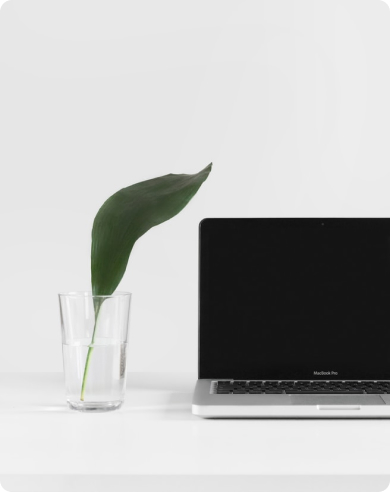
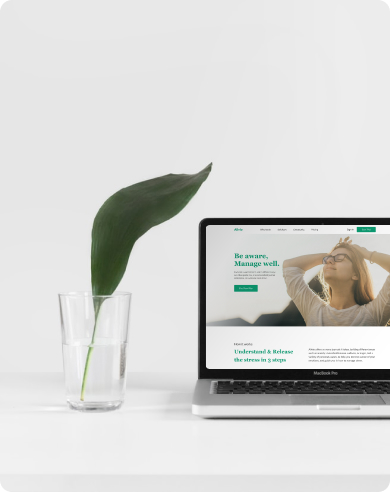
add how-it-works

Changed region(s): [[0.5231, 0.4573, 1.0, 0.7622]]

diff --git a/index.html b/index.html
@@ -34,8 +34,53 @@
                     <p class="headline-content__text">Everyone experiences stress in different ways. <br> Let Alivio guide you, in a personalized journal experience, to overcome your stress.</p>
                     <button class="btn-primary">Find Your Way</button>
                 </div>
+              </div>
+        </section>
+
+        <section class="how-it-works">
+            <div class="container">
+                <h4 class="how-it-works__subtitle">How it works</h4>
+                <div class="how-it-works__content">
+                    <div class="title">Understand & Release the stress in 3 steps</div>
+                    <p class="how-it-works__descr">Alivio offers as many journals it takes, tackling different areas such as anxiety, overwhelmedness, sadness, or anger, and a variety of personal causes, to help you become aware of your emotions, and guide you in how to manage stress.</p>
+                </div>
+                <div class="how-it-works__steps">
+                   <div class="how-it-works__step-wrapper">
+                    <div class="how-it-works__step">
+                        <div class="how-it-works__step-header">
+                            <span class="how-it-works__step-number">01</span>
+                            <h3 class="how-it-works__step-title">Personalize</h3>
+                        </div>
+                        <p class="how-it-works__step-descr">Answer a quick survey about how you express yourself, what causes you stress, and what area
+                            would you like to work on. This way, we can fully personalize your journal!</p>
+                        <img src="images/steps_personalize.jpg" alt="personalize">
+                    </div>
+                   </div>
+                    <div class="how-it-works__step-wrapper">
+                        <div class="how-it-works__step">
+                            <div class="how-it-works__step-header">
+                                <span class="how-it-works__step-number">02</span>
+                                <h3 class="how-it-works__step-title">Write & Understand</h3>
+                            </div>
+                            <p class="how-it-works__step-descr">Write, draw, reflect, understand. Alivio will guide you through the prompts and will help you
+                                manage your stress!</p>
+                            <img src="images/steps_write.png" alt="write-understand">
+                        </div>
+                    </div>
+                   <div class="how-it-works__step-wrapper">
+                    <div class="how-it-works__step">
+                        <div class="how-it-works__step-header">
+                            <span class="how-it-works__step-number">03</span>
+                            <h3 class="how-it-works__step-title">Alivio!</h3>
+                        </div>
+                        <p class="how-it-works__step-descr">Now you are aware, and have a way to manage and overcome your own stress. What are you waiting for? Alivio today!</p>
+                        <img src="images/steps_alivio.jpg" alt="step-alivio">
+                    </div>
+                   </div>
+                </div>
             </div>
         </section>
+
     </main>
 </body>
 </html>

diff --git a/css/blocks/how-it-works.css b/css/blocks/how-it-works.css
@@ -1,0 +1,78 @@
+.how-it-works {
+    padding: 170px 0 50px 0;
+}
+
+.how-it-works__subtitle {
+    color: var(--grey-color-secondary);
+    font-weight: 600;
+    font-size: var(--font-size-small);
+    line-height: 1.5;
+}
+
+.how-it-works__content {
+    display: grid;
+    grid-template-columns: repeat(2, 1fr);
+    grid-template-rows: auto;
+    column-gap: 135px;
+    margin-bottom: 50px;
+}
+
+.how-it-works__descr {
+    color: var(--grey-color-secondary);
+    font-weight: 500;   
+    font-size: var(--font-size-smallest);
+    line-height: 1.5;
+}
+
+.how-it-works__steps {
+    display: grid;
+    grid-template-columns: repeat(3, 1fr);
+    grid-template-rows: auto;
+    column-gap: 95px;
+}
+
+.how-it-works__step-wrapper {
+    display: flex;
+    flex-direction: column;
+}
+
+.how-it-works__step-wrapper:nth-of-type(even) {
+    margin-top: 180px;
+    justify-content: flex-end;
+}
+
+.how-it-works__step-header {
+    display: flex;
+    align-items: baseline;
+}
+
+.how-it-works__step-number {
+    font-family: 'Georgia';
+    font-style: normal;
+    font-weight: 400;
+    font-size: var(--font-size-largest);
+    line-height: 1.5;
+    text-align: center;
+    color: var(--green-color-primary);
+    opacity: 20%;
+}
+
+.how-it-works__step-title {
+    color: var(--black-color);
+    font-family: 'Georgia Bold';
+    font-size: var(--font-size-small-to-medium);
+    line-height: 1.5;
+    margin-left: -55px;
+    margin-bottom: 55px;
+}
+
+.how-it-works__step-wrapper:nth-of-type(2) .how-it-works__step-title {
+    margin-left: -97px;
+}
+
+.how-it-works__step-descr {
+    color: var(--grey-color-secondary);
+    font-weight: 500;
+    line-height: 1.5;
+    margin-bottom: 60px;
+}

diff --git a/css/styles.css b/css/styles.css
@@ -5,13 +5,14 @@
 @import './blocks/title.css';
 @import './blocks/header.css';
 @import './blocks/headline.css';
+@import './blocks/how-it-works.css';
 
 
 
 body {
     font-family: 'Lato', Arial, Helvetica, sans-serif;
-    font-size: var(--font-size-small);
-    color: var(--grey-color-main);
+    font-size: var(--font-size-smallest);
+    color: var(--grey-color-primary);
 }
 
 .container {

diff --git a/css/blocks/header.css b/css/blocks/header.css
@@ -15,6 +15,10 @@ header nav {
     min-width: 40%;
 }
 
+.nav-menu__link {
+    color: var(--grey-color-primary);
+}
+
 .cta-menu {
     display: flex;
     justify-content: space-between;
@@ -23,6 +27,7 @@ header nav {
 
 .cta-menu__sign-in {
     padding-right: 35px;
+    color: var(--grey-color-primary);
 }
 
 .cta-menu__btn {

diff --git a/css/base/variables.css b/css/base/variables.css
@@ -9,8 +9,11 @@
     --grey-color-light: #D6D6D6;
 
     /* Font-size */
-    --font-size-small: 20px;
+    --font-size-smallest: 20px;
+    --font-size-small: 24px;
+    --font-size-small-to-medium: 30px;
     --font-size-medium: 50px;
     --font-size-large: 65px;
+    --font-size-largest: 150px;
 }
 

diff --git a/css/blocks/headline.css b/css/blocks/headline.css
@@ -1,5 +1,5 @@
 .headline {
-    height: calc(100vh - 85px);
+    min-height: calc(100vh - 85px);
     background: url('/images/main_background.jpg') center center/cover no-repeat;
     padding: 175px 0 335px 0;
 }
